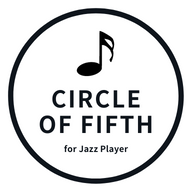
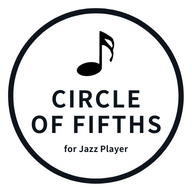
ごじ修正

Changed region(s): [[0.1562, 0.5938, 0.8438, 0.7188]]

diff --git a/apps/circle-of-fifths/app.js b/apps/circle-of-fifths/app.js
@@ -212,7 +212,7 @@ var diminishes = [];
 initKeys(diminishes, DIMINISH_KEYS, DIMINISH_RADIUS, true, "#6c757d", 12);
 
 // タイトルの表示
-var main = s.text(CENTER_X, 40, "Circle of Fifth for Jazz Player");
+var main = s.text(CENTER_X, 40, "Circle of Fifths for Jazz Player");
 main.attr({
     textAnchor: "middle",
     dominantBaseline: "central",
